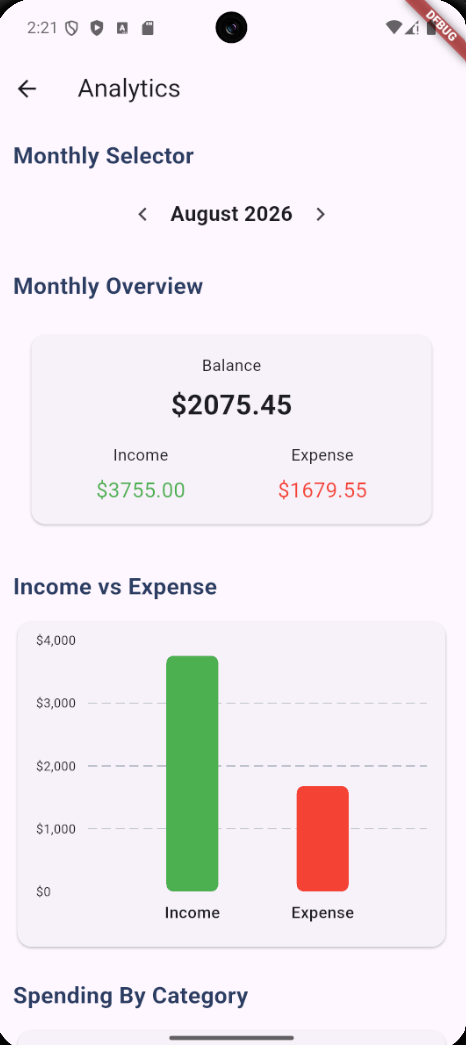
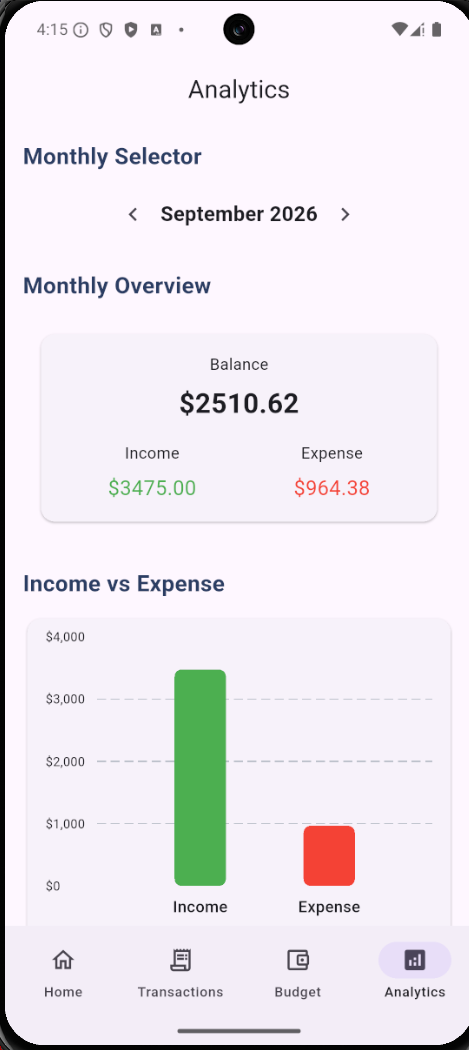
Updated HomeScreen Display

diff --git a/lib/screens/home_screen.dart b/lib/screens/home_screen.dart
@@ -1,14 +1,11 @@
 
 import 'package:expense_tracker_app/screens/add_transaction_screen.dart';
-import 'package:expense_tracker_app/widgets/active_filter_chips.dart';
+import 'package:expense_tracker_app/screens/transactions_screen.dart';
 import 'package:flutter/material.dart';
 import '../widgets/balance_card.dart';
 import '../widgets/transaction_list.dart';
 import 'package:provider/provider.dart';
 import'package:expense_tracker_app/providers/transaction_provider.dart';
-import 'package:expense_tracker_app/widgets/transaction_search_bar.dart';
-import 'package:expense_tracker_app/models/transaction_filter.dart';
-import 'package:expense_tracker_app/widgets/transaction_filter_sheet.dart';
 
 class HomeScreen extends StatefulWidget {
   const HomeScreen({super.key});
@@ -19,19 +16,6 @@ class HomeScreen extends StatefulWidget {
 
 class _HomeScreenState extends State<HomeScreen> {
 
-  String _searchQuery = '';// State variable to hold the search query
-  TransactionFilter _filters = TransactionFilter.empty; // State variable to hold the current filter
-  final TextEditingController _searchController = TextEditingController();// Controller for the search TextField
-
- // Helper function to get the date part of a DateTime object (ignoring time)
-  DateTime _dateOnly(DateTime date) {
-    return DateTime(
-      date.year,
-      date.month,
-      date.day,
-    );
-  }
-
   @override
   void initState() {
     super.initState();
@@ -41,39 +25,14 @@ class _HomeScreenState extends State<HomeScreen> {
     });
   }
 
-  // Dispose the controller when the widget is disposed
-  @override
-  void dispose() {
-    _searchController.dispose();
-    super.dispose();
-  }
-
   @override
   Widget build(BuildContext context) {
 
-    final transactions = context.watch<TransactionProvider>().transactions;
     final provider = context.watch<TransactionProvider>();
-    final searchLower = _searchQuery.toLowerCase().trim();
-    final startDate = _filters.startDate != null ? _dateOnly(_filters.startDate!) : null;
-    final endDate = _filters.endDate != null ? _dateOnly(_filters.endDate!) : null;
+    //// Display only the 5 most recent transactions
+    final recentTransactions = [...provider.transactions]..sort((a, b) => b.date.compareTo(a.date));
+    final latestTransactions = recentTransactions.take(5).toList();
 
-    // Filter transactions based on the search query and selected filters
-    final filteredTransactions = transactions.where((transaction) {
-      final transactionDate = _dateOnly(transaction.date);
-      
-      final matchesSearch = searchLower.isEmpty || transaction.title.toLowerCase().contains(searchLower) || transaction.category.toLowerCase().contains(searchLower);
-      
-      final matchesType = _filters.type == null || transaction.type == _filters.type;
-      
-      final matchesCategory = _filters.category == null || transaction.category == _filters.category;
-      
-      final matchesDateRange = startDate == null || endDate == null || (transactionDate.compareTo(startDate) >= 0 && transactionDate.compareTo(endDate) <= 0);
-      
-      return matchesSearch && matchesType && matchesCategory && matchesDateRange; 
-    }).toList();
-    
-    
-    
     return Scaffold(
 
       appBar: AppBar(
@@ -86,95 +45,45 @@ class _HomeScreenState extends State<HomeScreen> {
 
           // Display the balance card with current balance, income, and expense
           BalanceCard(balance: provider.balance, income: provider.totalIncome, expense: provider.totalExpense),
-
-          // Search bar and filter button 
-          Padding(
-            padding: const EdgeInsets.all(8.0),
-            child: Row(
-              children: [
-            
-                // Search bar for filtering transactions
-                Expanded(
-                  child: TransactionSearchBar(
-                    searchController: _searchController,
-                    searchQuery: _searchQuery,
-                    onClear: () {
-                      setState(() {
-                        _searchQuery = '';
-                        _searchController.clear();
-                      });
-                    },
-                    onChanged: (value) {
-                      setState(() {
-                        _searchQuery = value;
-                      });
-                    },
-                  ),
+          
+          // Recent transactions header. 
+          Padding( 
+            padding: const EdgeInsets.fromLTRB(16, 20, 16, 8), 
+            child: Row( 
+              mainAxisAlignment: MainAxisAlignment.spaceBetween, 
+              children: [ 
+                const Text( 
+                  'Recent Transactions', 
+                  style: TextStyle( 
+                    fontSize: 20, 
+                    fontWeight: FontWeight.bold, 
+                  ), 
                 ),
-            
-                const SizedBox(width: 8),
-            
-                // Filter button to open the filter dialog
-                Container(
-                  decoration: BoxDecoration(
-                    color: Colors.grey[200],
-                    borderRadius: BorderRadius.circular(8.0),
-                  ),
-                  child: IconButton(
-                    icon: const Icon(Icons.filter_list),
-                    tooltip: 'Filter transactions',
-                    // Show the filter sheet when the button is pressed
-                    onPressed: () async {
-                       final filters = await showModalBottomSheet<TransactionFilter>(
-                        context: context,
-                        isScrollControlled: true,
-                        builder: (context) {
-                          return TransactionFilterSheet(
-                            initialFilter: _filters,
-                          );
-                        },
-                      );
-                      // Update the state with the selected filters if they are not null
-                      if (filters != null) {
-                        setState(() {
-                          _filters = filters;
-                        });
-                      }              
-                    }
+                TextButton(
+                  onPressed:(){
+                    Navigator.push(
+                      context,
+                      MaterialPageRoute(builder: (context) => TransactionsScreen())
+                    );
+                  }, 
+                  child: const Text(
+                    'View All',
+                    style: TextStyle(
+                      fontSize: 16,
+                      color: Colors.blue,
+                    ),
                   ),
                 ),
               ],
             ),
-          ),
-          // Display active filter chips if any filters are applied
-          if (!_filters.isEmpty)
-            Padding(
-              padding: const EdgeInsets.symmetric(horizontal: 8.0),
-              child: ActiveFilterChips(
-                filters: _filters,
-                onClearType: () {
-                  setState(() {
-                    _filters = _filters.copyWith(type: null);
-                  });
-                },
-                onClearCategory: () {
-                  setState(() {
-                    _filters = _filters.copyWith(category: null);
-                  });
-                },
-                onClearDate: () {
-                  setState(() {
-                    _filters = _filters.copyWith(startDate: null, endDate: null);
-                  });
-                },
-              ),
-            ),
-          // Display the list of transactions, filtered based on the search query and selected filters
+          ), 
+
+          // Display the list of recent transactions 
           Expanded(
             child: TransactionList(
-              transactions: filteredTransactions,
-              isSearching: _searchQuery.isNotEmpty,
-              hasActiveFilters: !_filters.isEmpty,
+              transactions: latestTransactions,
+              isSearching : false,
+              hasActiveFilters: false,
             ),
           ),
         ],

diff --git a/lib/screens/transactions_screen.dart b/lib/screens/transactions_screen.dart
@@ -48,7 +48,6 @@ class _TransactionsScreenState extends State<TransactionsScreen> {
   @override
   Widget build(BuildContext context) {
     final transactions = context.watch<TransactionProvider>().transactions;
-    final provider = context.watch<TransactionProvider>();
     final searchLower = _searchQuery.toLowerCase().trim();
     final startDate = _filters.startDate != null ? _dateOnly(_filters.startDate!) : null;
     final endDate = _filters.endDate != null ? _dateOnly(_filters.endDate!) : null;
